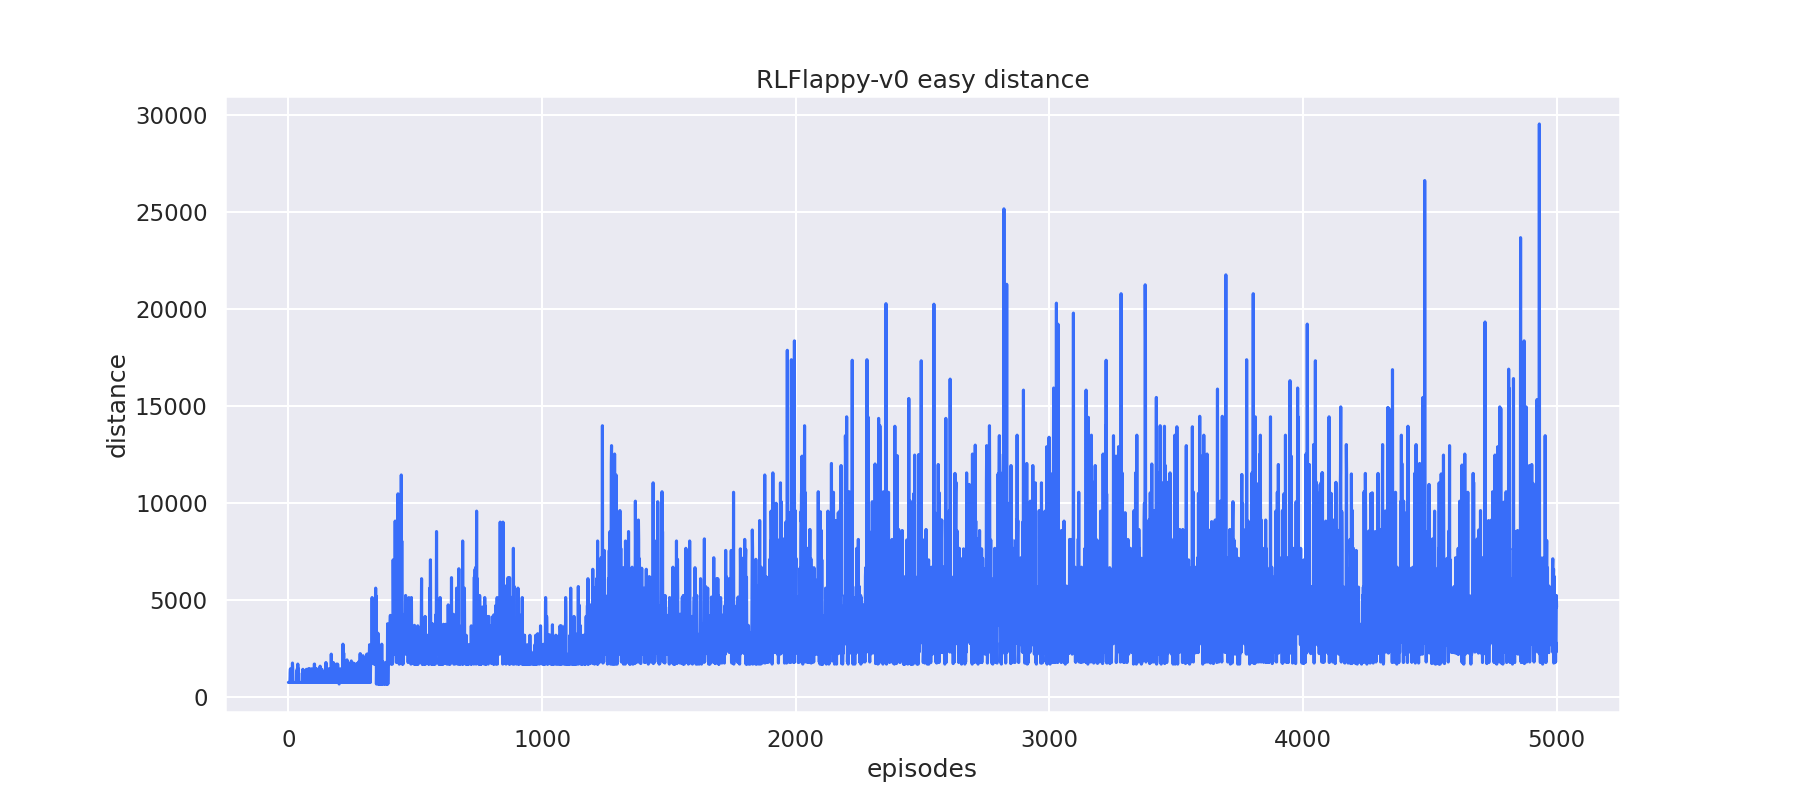
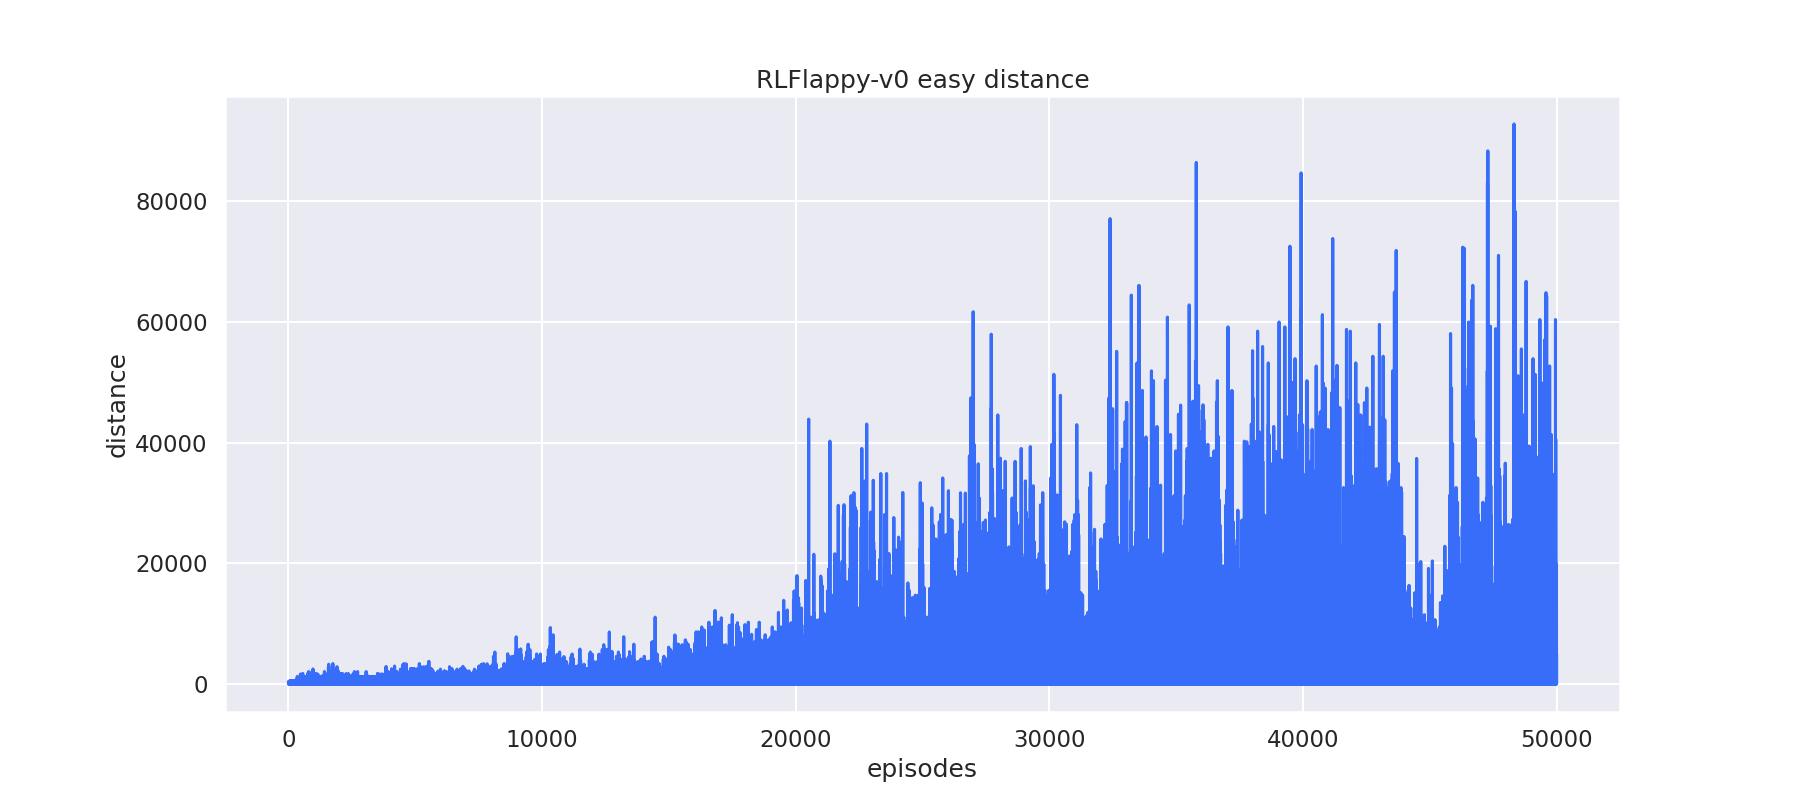
reset at random state

diff --git a/gym_pygame/envs/v0/src/pipe_generator.py b/gym_pygame/envs/v0/src/pipe_generator.py
@@ -1,8 +1,8 @@
 import random
-
+import numpy as np
 import pygame
 
-from envs.params import SPACE_BETWEEN_PIPES, PIPE_WIDTH, PIPE_SPEED, WIDTH, HEIGHT, PIPE_SPACE
+from envs.params import SPACE_BETWEEN_PIPES, PIPE_WIDTH, PIPE_SPEED, WIDTH, HEIGHT, PIPE_SPACE, LEFT_POSITION
 from envs.v0.src.pipe import Pipe
 
 
@@ -18,6 +18,15 @@ class PipeGenerator:
         self.pipes = []
         self.time_spent = 0
 
+    def reset_random(self):
+        number_of_pipes = WIDTH // (SPACE_BETWEEN_PIPES + PIPE_WIDTH)
+        self.pipes = []
+        start_position = np.random.uniform(LEFT_POSITION, WIDTH / 3)
+        for i in range(number_of_pipes):
+            self.pipes.append(Pipe(self.game.player, self, position=start_position + i * (PIPE_WIDTH + SPACE_BETWEEN_PIPES),
+                    height=random.randint(50, HEIGHT - 50 - PIPE_SPACE)))
+
+
     def gen_pipe(self):
         # Create a pipe with random height
         # TODO make an easy way to change how we compute the height (random or not)
@@ -27,8 +36,11 @@ class PipeGenerator:
     def generator(self, dt):
         self.time_spent += dt
         # We wait enough time and create a new pipe
-        if self.time_spent > self.time_between:
-            self.time_spent = 0
+        if self.pipes:
+            if WIDTH - self.pipes[-1].position + 100 > SPACE_BETWEEN_PIPES :
+                self.time_spent = 0
+                self.pipes.append(self.gen_pipe())
+        else:
             self.pipes.append(self.gen_pipe())
 
     def move(self, dt):

diff --git a/gym_pygame/envs/v0/src/player.py b/gym_pygame/envs/v0/src/player.py
@@ -1,6 +1,8 @@
+import random
+
 import pygame
 
-from envs.params import JUMP_SPEEDUP, FALL_SPEEDUP, HEIGHT, SIZE, LEFT_POSITION, PIPE_SPEED
+from envs.params import JUMP_SPEEDUP, FALL_SPEEDUP, HEIGHT, SIZE, LEFT_POSITION, PIPE_SPEED, PIPE_SPACE
 
 PLAYER_COLOR = "yellow"
 
@@ -23,7 +25,20 @@ class Player:
         self.reward = False
         self.dt_jump = 0
 
-
+    def reset_random(self, pipes):
+        self.speedup = 0
+        self.points = 0
+        self.distance = 0
+        self.reward = False
+        self.dt_jump = 0
+        in_pipe = False
+        for pipe in pipes:
+            if LEFT_POSITION <= pipe.position <= LEFT_POSITION + SIZE:
+                self.position = random.uniform(pipe.height + SIZE + 10, pipe.height + PIPE_SPACE - SIZE - 10)
+                in_pipe = True
+                break
+        if not in_pipe:
+            self.position = random.uniform(100, HEIGHT-100)
     def wait_jump(self):
         keys = pygame.key.get_pressed()
         if keys[pygame.K_SPACE]:

diff --git a/gym_pygame/envs/v0/rl_flappy.py b/gym_pygame/envs/v0/rl_flappy.py
@@ -32,7 +32,7 @@ class FlappyEnv(gym.Env):
 
         # We have two actions jump and not jump
         self.action_space = spaces.Discrete(1)
-
+        self.reset()
         assert render_mode is None or render_mode in self.metadata["render_modes"]
         self.render_mode = render_mode
 
@@ -59,8 +59,12 @@ class FlappyEnv(gym.Env):
         observation = self._get_obs()
         info = self._get_info()
 
-        self.pipe_generator.reset()
-        self.player.reset()
+        if option == "demo":
+            self.pipe_generator.reset()
+            self.player.reset()
+        else:
+            self.pipe_generator.reset_random()
+            self.player.reset_random(self.pipe_generator.pipes)
         self.lidar.reset()
         self.terminated = False
         self.previous_points = 0

diff --git a/gym_pygame/envs/params.py b/gym_pygame/envs/params.py
@@ -4,18 +4,18 @@ HEIGHT = 720
 WIDTH = 1280
 
 # Player
-JUMP_SPEEDUP = 325
-FALL_SPEEDUP = 1000
+JUMP_SPEEDUP = 325 # easy 325 hard 450
+FALL_SPEEDUP = 1000 # easy 1000 hard 1250
 SIZE = 40
 LEFT_POSITION = 100
 
 # Pipe
 PIPE_SPEED = 300
 PIPE_WIDTH = 80
-PIPE_SPACE = 200 # easy 300 medium 250 hard 200
+PIPE_SPACE = 200
 
 # Pipe generator
-SPACE_BETWEEN_PIPES = 400
+SPACE_BETWEEN_PIPES = 400 # easy 400 hard 350
 
 # Lidar
 LIDAR_MAX_DIST = 2000

diff --git a/learning/learn.py b/learning/learn.py
@@ -14,7 +14,7 @@ from learning.reinforce import REINFORCE
 env = gym.make(f"gym_pygame/{ENV_NAME}")
 wrapped_env = gym.wrappers.RecordEpisodeStatistics(env, 50)  # Records episode-reward
 
-total_num_episodes = int(5e3)  # Total number of episodes
+total_num_episodes = int(3e4)  # Total number of episodes
 
 # Observation-space of InvertedPendulum-v4 (4)
 obs_space_dims = 0

diff --git a/learning/demo.py b/learning/demo.py
@@ -32,7 +32,7 @@ env = gym.make(f"gym_pygame/{ENV_NAME}", render_mode="human")
 
 for episode in range(total_num_episodes):
     # gymnasium v26 requires users to set seed while resetting the environment
-    obs, info = env.reset(seed=seed)
+    obs, info = env.reset(seed=seed, option="demo")
 
     done = False
     while not done:

diff --git a/gym_pygame/play.py b/gym_pygame/play.py
@@ -60,8 +60,8 @@ class Game:
             self.dt = self.clock.tick(60) / 1000
 
     def reset(self):
-        self.player.reset()
         self.pipe_generator.reset()
+        self.player.reset()
         self.lidar.reset()
         self.terminated = False
 
